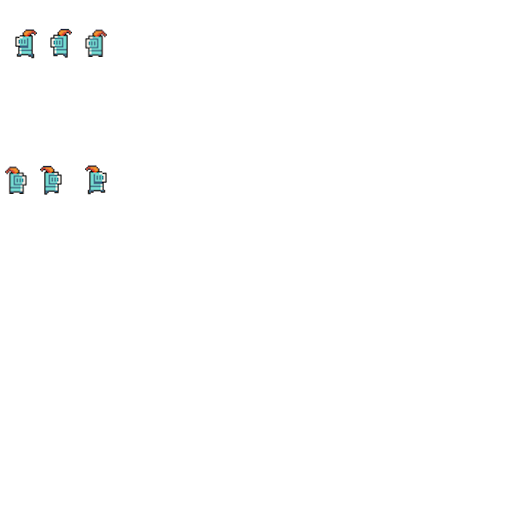
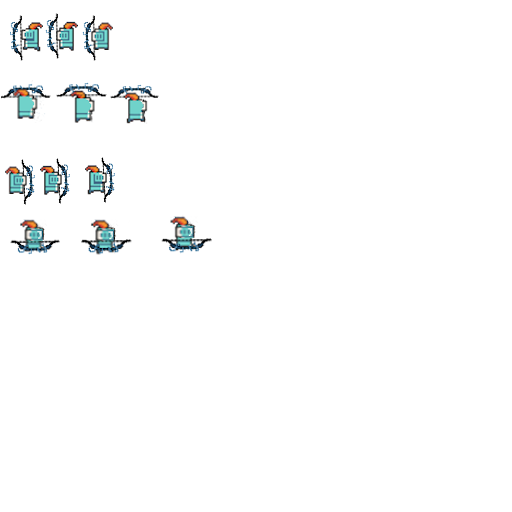
full character animation for 4 directions

diff --git a/dist/main.js b/dist/main.js
@@ -118,7 +118,7 @@ eval("__webpack_require__.r(__webpack_exports__);\n/* harmony export (binding) *
 /***/ (function(module, __webpack_exports__, __webpack_require__) {
 
 "use strict";
-eval("__webpack_require__.r(__webpack_exports__);\n/* harmony export (binding) */ __webpack_require__.d(__webpack_exports__, \"default\", function() { return Game; });\n/* harmony import */ var _player__WEBPACK_IMPORTED_MODULE_0__ = __webpack_require__(/*! ./player */ \"./src/player.js\");\n/* harmony import */ var _monster__WEBPACK_IMPORTED_MODULE_1__ = __webpack_require__(/*! ./monster */ \"./src/monster.js\");\n/* harmony import */ var _board__WEBPACK_IMPORTED_MODULE_2__ = __webpack_require__(/*! ./board */ \"./src/board.js\");\n/* harmony import */ var _keys__WEBPACK_IMPORTED_MODULE_3__ = __webpack_require__(/*! ./keys */ \"./src/keys.js\");\n/* harmony import */ var _sprite__WEBPACK_IMPORTED_MODULE_4__ = __webpack_require__(/*! ./sprite */ \"./src/sprite.js\");\n\r\n\r\n\r\n\r\n\r\n\r\nclass Game {\r\n  constructor() {\r\n    this.board = new _board__WEBPACK_IMPORTED_MODULE_2__[\"default\"]();\r\n    this.player = new _player__WEBPACK_IMPORTED_MODULE_0__[\"default\"]();\r\n    this.monsters = [];\r\n    this.keys = _keys__WEBPACK_IMPORTED_MODULE_3__[\"keysDown\"];\r\n    this.currentSecond = 0;\r\n    this.frameCount = 0;\r\n    this.framesLastSecond = 0;\r\n    this.lastFrameTime = 0; \r\n    this.drawGame = this.drawGame.bind(this)\r\n  }\r\n\r\n  \r\n  drawGame() {\r\n    let currentFrameTime = Date.now();\r\n    let timeElapsed = currentFrameTime - this.lastFrameTime\r\n\r\n    let sec = Math.floor(Date.now()/1000);\r\n    if (sec !== this.currentSecond) {\r\n      this.currentSecond = sec;\r\n      this.framesLastSecond = this.frameCount; \r\n      this.frameCount = 1;\r\n    } else {\r\n      this.frameCount++;\r\n    }\r\n    \r\n    if (!this.player.handleMove(currentFrameTime)) {\r\n      this.checkValidMove(currentFrameTime)\r\n    }\r\n\r\n    for (let y = 0; y < this.board.mapHeight; y++) {\r\n      for (let x = 0; x < this.board.mapWidth; x++) {\r\n        let tile =  this.board.tileTypes[this.board.gameMap[this.player.toIndex(x, y)]];\r\n        let tileset = new Image();\r\n        tileset.src = tile.sprite.url;\r\n        this.board.ctx.drawImage(tileset, tile.sprite.pos[0], tile.sprite.pos[1], tile.sprite.size[0], tile.sprite.size[1], (x * this.board.tileWidth), (y * this.board.tileHeight), this.board.tileWidth, this.board.tileHeight)\r\n      }\r\n    }\r\n\r\n    let spritePlayer = this.player.sprites[this.player.direction]\r\n    let toonSet = new Image();\r\n    toonSet.src = spritePlayer.url\r\n    let totalSpriteTime = 0;\r\n\r\n    for (let s in spritePlayer.frames) {\r\n      spritePlayer.frames[s]['start'] = totalSpriteTime;\r\n      totalSpriteTime += spritePlayer.aniTime;\r\n      spritePlayer.frames[s]['end'] = totalSpriteTime;\r\n    }\r\n\r\n    spritePlayer['totalSpriteDuration'] = totalSpriteTime;\r\n    \r\n    let toon = this.getFrame(spritePlayer.frames, spritePlayer.totalSpriteDuration, currentFrameTime, this.player.moving)\r\n    this.board.ctx.drawImage(toonSet, toon.pos[0], toon.pos[1], toon.size[0], toon.size[1], this.player.mapPos[0], this.player.mapPos[1], this.player.size[0], this.player.size[1])\r\n  \r\n\r\n    \r\n    while (this.monsters.length < 1) {\r\n      let monster = new _monster__WEBPACK_IMPORTED_MODULE_1__[\"default\"]();\r\n      this.monsters.push(monster);\r\n    }\r\n\r\n    if (!this.monsters[0].handleMove(currentFrameTime)) {\r\n      this.monsterCheckValidMove(currentFrameTime)\r\n    }\r\n    \r\n    \r\n    for (let m = 0; m < this.monsters.length; m++) {\r\n\r\n      let spriteMonster = this.monsters[m];\r\n      let monsterSet = new Image();\r\n      monsterSet.src = \"./src/images/monsterSet.png\";\r\n\r\n      this.board.ctx.drawImage(monsterSet, 16, 14, 40, 40, spriteMonster.mapPos[0], spriteMonster.mapPos[1], spriteMonster.size[0], spriteMonster.size[1])\r\n    }\r\n\r\n    this.board.ctx.fillStyle = \"#ff0000\";\r\n    this.board.ctx.fillText(this.player.mapPos, 10, 20)\r\n    this.board.ctx.fillText(`FPS: ${this.framesLastSecond}`, 10, 30);\r\n    this.board.ctx.fillText(this.player.currentPos, 10, 50);\r\n    \r\n    this.lastFrameTime = currentFrameTime;\r\n    requestAnimationFrame(this.drawGame);\r\n  }\r\n\r\n  checkValidMove(currentFrameTime) {\r\n    // if (this.keys[37] && this.keys[38] && this.player.canMoveLeft() && this.player.canMoveUp()) {\r\n    //   this.player.moveUpLeft(currentFrameTime); NEEDS WORK- ANIMATION\r\n    if (this.keys[37] && this.player.canMoveLeft()) {\r\n      this.player.lastDir = \"left\"\r\n      this.player.moveLeft(currentFrameTime);\r\n    } else if (this.keys[38] && this.player.canMoveUp()) {\r\n      this.player.lastDir = \"up\"\r\n      this.player.moveUp(currentFrameTime);\r\n    } else if (this.keys[39] && this.player.canMoveRight()) {\r\n      this.player.lastDir = \"right\"\r\n      this.player.moveRight(currentFrameTime);\r\n    } else if (this.keys[40] && this.player.canMoveDown()) {\r\n      this.player.lastDir = \"down\"\r\n      this.player.moveDown(currentFrameTime);\r\n    }\r\n  }\r\n\r\n  monsterCheckValidMove(currentFrameTime) {\r\n    if (this.monsters[0].canMoveLeft() && (this.player.currentPos[0] < this.monsters[0].currentPos[0])) {\r\n      this.monsters[0].moveLeft(currentFrameTime)\r\n    } else if (this.monsters[0].canMoveUp() && (this.player.currentPos[1] < this.monsters[0].currentPos[1])) {\r\n      this.monsters[0].moveUp(currentFrameTime);\r\n    } else if (this.monsters[0].canMoveRight() && (this.player.currentPos[0] > this.monsters[0].currentPos[0])) {\r\n      this.monsters[0].moveRight(currentFrameTime);\r\n    } else if (this.monsters[0].canMoveDown() && (this.player.currentPos[1] > this.monsters[0].currentPos[1])) {\r\n      this.monsters[0].moveDown(currentFrameTime);\r\n    }\r\n  }\r\n\r\n  getFrame(sprites, duration, time, moving) {\r\n    if (!moving) return sprites[0]\r\n    time = time % duration;\r\n    for (let i in sprites) {\r\n      if (sprites[i].end >= time) return sprites[i];\r\n    }\r\n  }\r\n\r\n};\n\n//# sourceURL=webpack:///./src/game.js?");
+eval("__webpack_require__.r(__webpack_exports__);\n/* harmony export (binding) */ __webpack_require__.d(__webpack_exports__, \"default\", function() { return Game; });\n/* harmony import */ var _player__WEBPACK_IMPORTED_MODULE_0__ = __webpack_require__(/*! ./player */ \"./src/player.js\");\n/* harmony import */ var _monster__WEBPACK_IMPORTED_MODULE_1__ = __webpack_require__(/*! ./monster */ \"./src/monster.js\");\n/* harmony import */ var _board__WEBPACK_IMPORTED_MODULE_2__ = __webpack_require__(/*! ./board */ \"./src/board.js\");\n/* harmony import */ var _keys__WEBPACK_IMPORTED_MODULE_3__ = __webpack_require__(/*! ./keys */ \"./src/keys.js\");\n/* harmony import */ var _sprite__WEBPACK_IMPORTED_MODULE_4__ = __webpack_require__(/*! ./sprite */ \"./src/sprite.js\");\n\r\n\r\n\r\n\r\n\r\n\r\nclass Game {\r\n  constructor() {\r\n    this.board = new _board__WEBPACK_IMPORTED_MODULE_2__[\"default\"]();\r\n    this.player = new _player__WEBPACK_IMPORTED_MODULE_0__[\"default\"]();\r\n    this.monsters = [];\r\n    this.keys = _keys__WEBPACK_IMPORTED_MODULE_3__[\"keysDown\"];\r\n    this.currentSecond = 0;\r\n    this.frameCount = 0;\r\n    this.framesLastSecond = 0;\r\n    this.lastFrameTime = 0; \r\n    this.drawGame = this.drawGame.bind(this)\r\n  }\r\n\r\n  \r\n  drawGame() {\r\n    let currentFrameTime = Date.now();\r\n    let timeElapsed = currentFrameTime - this.lastFrameTime\r\n\r\n    let sec = Math.floor(Date.now()/1000);\r\n    if (sec !== this.currentSecond) {\r\n      this.currentSecond = sec;\r\n      this.framesLastSecond = this.frameCount; \r\n      this.frameCount = 1;\r\n    } else {\r\n      this.frameCount++;\r\n    }\r\n    \r\n    if (!this.player.handleMove(currentFrameTime)) {\r\n      this.checkValidMove(currentFrameTime)\r\n    }\r\n\r\n    for (let y = 0; y < this.board.mapHeight; y++) {\r\n      for (let x = 0; x < this.board.mapWidth; x++) {\r\n        let tile =  this.board.tileTypes[this.board.gameMap[this.player.toIndex(x, y)]];\r\n        let tileset = new Image();\r\n        tileset.src = tile.sprite.url;\r\n        this.board.ctx.drawImage(tileset, tile.sprite.pos[0], tile.sprite.pos[1], tile.sprite.size[0], tile.sprite.size[1], (x * this.board.tileWidth), (y * this.board.tileHeight), this.board.tileWidth, this.board.tileHeight)\r\n      }\r\n    }\r\n\r\n    let spritePlayer = this.player.sprites[this.player.direction]\r\n    let toonSet = new Image();\r\n    toonSet.src = spritePlayer.url\r\n    let totalSpriteTime = 0;\r\n\r\n    for (let s in spritePlayer.frames) {\r\n      spritePlayer.frames[s]['start'] = totalSpriteTime;\r\n      totalSpriteTime += spritePlayer.aniTime;\r\n      spritePlayer.frames[s]['end'] = totalSpriteTime;\r\n    }\r\n\r\n    spritePlayer['totalSpriteDuration'] = totalSpriteTime;\r\n    \r\n    let toon = this.getFrame(spritePlayer.frames, spritePlayer.totalSpriteDuration, currentFrameTime, this.player.moving)\r\n    this.board.ctx.drawImage(toonSet, toon.pos[0], toon.pos[1], toon.size[0], toon.size[1], this.player.mapPos[0], this.player.mapPos[1], this.player.size[0], this.player.size[1])\r\n  \r\n\r\n    \r\n    while (this.monsters.length < 1) {\r\n      let monster = new _monster__WEBPACK_IMPORTED_MODULE_1__[\"default\"]();\r\n      this.monsters.push(monster);\r\n    }\r\n\r\n    if (!this.monsters[0].handleMove(currentFrameTime)) {\r\n      this.monsterCheckValidMove(currentFrameTime)\r\n    }\r\n    \r\n    \r\n    for (let m = 0; m < this.monsters.length; m++) {\r\n\r\n      let spriteMonster = this.monsters[m];\r\n      let monsterSet = new Image();\r\n      monsterSet.src = \"./src/images/monsterSet.png\";\r\n\r\n      this.board.ctx.drawImage(monsterSet, 16, 14, 40, 40, spriteMonster.mapPos[0], spriteMonster.mapPos[1], spriteMonster.size[0], spriteMonster.size[1])\r\n    }\r\n\r\n    this.board.ctx.fillStyle = \"#ff0000\";\r\n    this.board.ctx.fillText(this.player.mapPos, 10, 20)\r\n    this.board.ctx.fillText(`FPS: ${this.framesLastSecond}`, 10, 30);\r\n    this.board.ctx.fillText(this.player.currentPos, 10, 50);\r\n    \r\n    this.lastFrameTime = currentFrameTime;\r\n    requestAnimationFrame(this.drawGame);\r\n  }\r\n\r\n  checkValidMove(currentFrameTime) {\r\n    // if (this.keys[37] && this.keys[38] && this.player.canMoveLeft() && this.player.canMoveUp()) {\r\n    //   this.player.moveUpLeft(currentFrameTime); NEEDS WORK- ANIMATION\r\n    if (this.keys[37] && this.player.canMoveLeft()) {\r\n      this.player.moveLeft(currentFrameTime);\r\n    } else if (this.keys[38] && this.player.canMoveUp()) {\r\n      this.player.moveUp(currentFrameTime);\r\n    } else if (this.keys[39] && this.player.canMoveRight()) {\r\n      this.player.moveRight(currentFrameTime);\r\n    } else if (this.keys[40] && this.player.canMoveDown()) {\r\n      this.player.moveDown(currentFrameTime);\r\n    }\r\n  }\r\n\r\n  monsterCheckValidMove(currentFrameTime) {\r\n    if (this.monsters[0].canMoveLeft() && (this.player.currentPos[0] < this.monsters[0].currentPos[0])) {\r\n      this.monsters[0].moveLeft(currentFrameTime)\r\n    } else if (this.monsters[0].canMoveUp() && (this.player.currentPos[1] < this.monsters[0].currentPos[1])) {\r\n      this.monsters[0].moveUp(currentFrameTime);\r\n    } else if (this.monsters[0].canMoveRight() && (this.player.currentPos[0] > this.monsters[0].currentPos[0])) {\r\n      this.monsters[0].moveRight(currentFrameTime);\r\n    } else if (this.monsters[0].canMoveDown() && (this.player.currentPos[1] > this.monsters[0].currentPos[1])) {\r\n      this.monsters[0].moveDown(currentFrameTime);\r\n    }\r\n  }\r\n\r\n  getFrame(sprites, duration, time, moving) {\r\n    if (!moving) return sprites[0]\r\n    time = time % duration;\r\n    for (let i in sprites) {\r\n      if (sprites[i].end >= time) return sprites[i];\r\n    }\r\n  }\r\n\r\n};\n\n//# sourceURL=webpack:///./src/game.js?");
 
 /***/ }),
 
@@ -178,7 +178,7 @@ eval("__webpack_require__.r(__webpack_exports__);\n/* harmony export (binding) *
 /***/ (function(module, __webpack_exports__, __webpack_require__) {
 
 "use strict";
-eval("__webpack_require__.r(__webpack_exports__);\n/* harmony export (binding) */ __webpack_require__.d(__webpack_exports__, \"default\", function() { return Player; });\n/* harmony import */ var _board__WEBPACK_IMPORTED_MODULE_0__ = __webpack_require__(/*! ./board */ \"./src/board.js\");\n/* harmony import */ var _character_sprite__WEBPACK_IMPORTED_MODULE_1__ = __webpack_require__(/*! ./character_sprite */ \"./src/character_sprite.js\");\n\r\n\r\n\r\nclass Player {\r\n  constructor() {\r\n    this.currentPos = [1, 4];\r\n    this.nextPos = [1, 4];\r\n    this.timeStart = 0;\r\n    this.delayMove = 300;\r\n    this.size = [50, 50]; \r\n    this.mapPos = [90, 290];\r\n    this.sampleBoard = new _board__WEBPACK_IMPORTED_MODULE_0__[\"default\"]();\r\n    this.direction = \"right\";\r\n    this.lastDir = \"right\"\r\n    this.moving = false;\r\n    this.sprites = {\r\n      \"up\": new _character_sprite__WEBPACK_IMPORTED_MODULE_1__[\"default\"](\"./src/images/knightFrames.png\", { 0: { pos: [5, 167], size: [35, 39] },\r\n                                                                   1: { pos: [40, 166], size: [40, 39] },\r\n                                                                   2: { pos: [85, 165], size: [40, 39] }\r\n                                                                  },\r\n                                                                  200), \r\n      \"right\": new _character_sprite__WEBPACK_IMPORTED_MODULE_1__[\"default\"](\"./src/images/knightFrames.png\", { 0: { pos: [5, 167], size: [35, 39] },\r\n                                                                     1: { pos: [40, 166], size: [40, 39] },\r\n                                                                     2: { pos: [85, 165], size: [40, 39] }\r\n                                                                   },\r\n                                                                   200), \r\n      \"down\": new _character_sprite__WEBPACK_IMPORTED_MODULE_1__[\"default\"](\"./src/images/knightFrames.png\", { 0: { pos: [5, 167], size: [35, 39] },\r\n                                                                    1: { pos: [40, 166], size: [40, 39] },\r\n                                                                    2: { pos: [85, 165], size: [40, 39] }\r\n                                                                    },\r\n                                                                    200), \r\n      \"left\": new _character_sprite__WEBPACK_IMPORTED_MODULE_1__[\"default\"](\"./src/images/knightFrames.png\", { 0: { pos: [84, 30], size: [40, 39] },\r\n                                                                    1: { pos: [50, 29], size: [34, 39] },\r\n                                                                    2: { pos: [15, 29], size: [34, 39] }\r\n                                                                    },\r\n                                                                    200)\r\n\r\n    }\r\n    \r\n  }\r\n\r\n\r\n  move(x, y) {\r\n    this.currentPos = [x, y];\r\n    this.nextPos = [x, y];\r\n    this.mapPos = [\r\n      (this.sampleBoard.tileWidth * x) + ((this.sampleBoard.tileWidth - this.size[0]) / 2), \r\n      (this.sampleBoard.tileHeight * y) + ((this.sampleBoard.tileHeight - this.size[1]) / 2)\r\n    ];\r\n  }\r\n\r\n  handleMove(currentTime) {\r\n    if (this.currentPos[0] === this.nextPos[0] && this.currentPos[1] === this.nextPos[1]) return false;\r\n\r\n    if ((currentTime - this.timeStart) >= this.delayMove ) {\r\n      this.move(this.nextPos[0], this.nextPos[1]);\r\n      this.moving = !this.moving\r\n    } else {\r\n      this.getMapPos();\r\n      this.checkDirectionAndAdjust(currentTime);\r\n      this.mapPos[0] = Math.round(this.mapPos[0]);\r\n      this.mapPos[1] = Math.round(this.mapPos[1]);\r\n    }\r\n\r\n    return true;\r\n  }\r\n\r\n  getMapPos() {// \r\n    this.mapPos[0] = (this.currentPos[0] * this.sampleBoard.tileWidth) + ((this.sampleBoard.tileWidth - this.size[0]) / 2);\r\n    this.mapPos[1] = (this.currentPos[1] * this.sampleBoard.tileHeight) + ((this.sampleBoard.tileHeight - this.size[1]) / 2);\r\n  }\r\n\r\n  checkDirectionAndAdjust(currentTime) {\r\n    if (this.nextPos[0] !== this.currentPos[0]) {\r\n      let pixelDist = (this.sampleBoard.tileWidth / this.delayMove) * (currentTime - this.timeStart);\r\n\r\n      if (this.nextPos[0] < this.currentPos[0]) {\r\n        this.mapPos[0] += (0 - pixelDist);\r\n      } else {\r\n        this.mapPos[0] += (pixelDist);\r\n      }\r\n    } else {\r\n      let pixelDist = (this.sampleBoard.tileHeight / this.delayMove) * (currentTime - this.timeStart);\r\n\r\n      if (this.nextPos[1] < this.currentPos[1]) {\r\n        this.mapPos[1] += (0 - pixelDist);\r\n      } else {\r\n        this.mapPos[1] += (pixelDist);\r\n      }\r\n    }\r\n  }\r\n\r\n  toIndex(x, y) {\r\n    return ((y * this.sampleBoard.mapWidth) + x);\r\n  }\r\n\r\n  isWalkable(x, y) {\r\n    if (x < 0 || x >= this.sampleBoard.mapWidth || y < 0 || y >= this.sampleBoard.mapHeight) return false;\r\n    if (this.sampleBoard.tileTypes[this.sampleBoard.gameMap[this.toIndex(x, y)]].floor !== this.sampleBoard.floorTypes.walkable) return false; \r\n    return true;\r\n  }\r\n\r\n  canMoveUp() {\r\n    return this.isWalkable(this.currentPos[0], this.currentPos[1] - 1);\r\n  }\r\n\r\n  canMoveDown() {\r\n    return this.isWalkable(this.currentPos[0], this.currentPos[1] + 1);\r\n  }\r\n\r\n  canMoveLeft() {\r\n    return this.isWalkable(this.currentPos[0] - 1, this.currentPos[1]);\r\n  }\r\n\r\n  canMoveRight() {\r\n    return this.isWalkable(this.currentPos[0] + 1, this.currentPos[1]);\r\n  }\r\n\r\n  moveUp(currentGameTime) {\r\n    this.nextPos[1] -= 1;\r\n    this.timeStart = currentGameTime;\r\n    if (this.lastDir === \"left\") this.direction = \"left\";\r\n    this.moving = true;\r\n  }\r\n  \r\n  moveDown(currentGameTime) {\r\n    this.nextPos[1] += 1;\r\n    this.timeStart = currentGameTime;\r\n    if (this.lastDir === \"left\") this.direction = \"left\";\r\n    this.moving = true;\r\n  }\r\n\r\n  moveLeft(currentGameTime) {\r\n    this.nextPos[0] -= 1;\r\n    this.timeStart = currentGameTime;\r\n    this.direction = \"left\";\r\n    this.moving = true; \r\n  }\r\n\r\n  moveRight(currentGameTime) {\r\n    this.nextPos[0] += 1;\r\n    this.timeStart = currentGameTime;\r\n    this.direction = \"right\";\r\n    this.moving = true;\r\n  }\r\n\r\n  // moveUpLeft(currentGameTime) {\r\n  //   this.nextPos[0] -= 1;  NEEDS WORK-ANIMATION\r\n  //   this.nextPos[1] -= 1;\r\n  //   this.timeStart = currentGameTime;\r\n  //   this.direction = \"upLeft\"\r\n  //   this.moving = true;\r\n  // }\r\n\r\n};\r\n\r\n\n\n//# sourceURL=webpack:///./src/player.js?");
+eval("__webpack_require__.r(__webpack_exports__);\n/* harmony export (binding) */ __webpack_require__.d(__webpack_exports__, \"default\", function() { return Player; });\n/* harmony import */ var _board__WEBPACK_IMPORTED_MODULE_0__ = __webpack_require__(/*! ./board */ \"./src/board.js\");\n/* harmony import */ var _character_sprite__WEBPACK_IMPORTED_MODULE_1__ = __webpack_require__(/*! ./character_sprite */ \"./src/character_sprite.js\");\n\r\n\r\n\r\nclass Player {\r\n  constructor() {\r\n    this.currentPos = [1, 4];\r\n    this.nextPos = [1, 4];\r\n    this.timeStart = 0;\r\n    this.delayMove = 300;\r\n    this.size = [50, 50]; \r\n    this.mapPos = [90, 290];\r\n    this.sampleBoard = new _board__WEBPACK_IMPORTED_MODULE_0__[\"default\"]();\r\n    this.direction = \"right\";\r\n    this.lastDir = \"right\"\r\n    this.moving = false;\r\n    this.sprites = {\r\n      \"up\": new _character_sprite__WEBPACK_IMPORTED_MODULE_1__[\"default\"](\"./src/images/knightFrames.png\", { 0: { pos: [1, 84], size: [46, 43] },\r\n                                                                   1: { pos: [57, 83], size: [46, 43] },\r\n                                                                   2: { pos: [111, 85], size: [46, 43] }\r\n                                                                  },\r\n                                                                  200), \r\n      \"right\": new _character_sprite__WEBPACK_IMPORTED_MODULE_1__[\"default\"](\"./src/images/knightFrames.png\", { 0: { pos: [5, 160], size: [35, 43] },\r\n                                                                     1: { pos: [40, 159], size: [40, 43] },\r\n                                                                     2: { pos: [85, 157], size: [40, 43] }\r\n                                                                   },\r\n                                                                   200), \r\n      \"down\": new _character_sprite__WEBPACK_IMPORTED_MODULE_1__[\"default\"](\"./src/images/knightFrames.png\", { 0: { pos: [11, 220], size: [46, 40] },\r\n                                                                    1: { pos: [81, 220], size: [46, 40] },\r\n                                                                    2: { pos: [162, 217], size: [46, 40] }\r\n                                                                    },\r\n                                                                    200), \r\n      \"left\": new _character_sprite__WEBPACK_IMPORTED_MODULE_1__[\"default\"](\"./src/images/knightFrames.png\", { 0: { pos: [83, 15], size: [35, 42] },\r\n                                                                    1: { pos: [46, 13], size: [36, 42] },\r\n                                                                    2: { pos: [10, 15], size: [36, 43] }\r\n                                                                    },\r\n                                                                    200)\r\n\r\n    }\r\n    \r\n  }\r\n\r\n\r\n  move(x, y) {\r\n    this.currentPos = [x, y];\r\n    this.nextPos = [x, y];\r\n    this.mapPos = [\r\n      (this.sampleBoard.tileWidth * x) + ((this.sampleBoard.tileWidth - this.size[0]) / 2), \r\n      (this.sampleBoard.tileHeight * y) + ((this.sampleBoard.tileHeight - this.size[1]) / 2)\r\n    ];\r\n  }\r\n\r\n  handleMove(currentTime) {\r\n    if (this.currentPos[0] === this.nextPos[0] && this.currentPos[1] === this.nextPos[1]) return false;\r\n\r\n    if ((currentTime - this.timeStart) >= this.delayMove ) {\r\n      this.move(this.nextPos[0], this.nextPos[1]);\r\n      this.moving = !this.moving\r\n    } else {\r\n      this.getMapPos();\r\n      this.checkDirectionAndAdjust(currentTime);\r\n      this.mapPos[0] = Math.round(this.mapPos[0]);\r\n      this.mapPos[1] = Math.round(this.mapPos[1]);\r\n    }\r\n\r\n    return true;\r\n  }\r\n\r\n  getMapPos() {// \r\n    this.mapPos[0] = (this.currentPos[0] * this.sampleBoard.tileWidth) + ((this.sampleBoard.tileWidth - this.size[0]) / 2);\r\n    this.mapPos[1] = (this.currentPos[1] * this.sampleBoard.tileHeight) + ((this.sampleBoard.tileHeight - this.size[1]) / 2);\r\n  }\r\n\r\n  checkDirectionAndAdjust(currentTime) {\r\n    if (this.nextPos[0] !== this.currentPos[0]) {\r\n      let pixelDist = (this.sampleBoard.tileWidth / this.delayMove) * (currentTime - this.timeStart);\r\n\r\n      if (this.nextPos[0] < this.currentPos[0]) {\r\n        this.mapPos[0] += (0 - pixelDist);\r\n      } else {\r\n        this.mapPos[0] += (pixelDist);\r\n      }\r\n    } else {\r\n      let pixelDist = (this.sampleBoard.tileHeight / this.delayMove) * (currentTime - this.timeStart);\r\n\r\n      if (this.nextPos[1] < this.currentPos[1]) {\r\n        this.mapPos[1] += (0 - pixelDist);\r\n      } else {\r\n        this.mapPos[1] += (pixelDist);\r\n      }\r\n    }\r\n  }\r\n\r\n  toIndex(x, y) {\r\n    return ((y * this.sampleBoard.mapWidth) + x);\r\n  }\r\n\r\n  isWalkable(x, y) {\r\n    if (x < 0 || x >= this.sampleBoard.mapWidth || y < 0 || y >= this.sampleBoard.mapHeight) return false;\r\n    if (this.sampleBoard.tileTypes[this.sampleBoard.gameMap[this.toIndex(x, y)]].floor !== this.sampleBoard.floorTypes.walkable) return false; \r\n    return true;\r\n  }\r\n\r\n  canMoveUp() {\r\n    return this.isWalkable(this.currentPos[0], this.currentPos[1] - 1);\r\n  }\r\n\r\n  canMoveDown() {\r\n    return this.isWalkable(this.currentPos[0], this.currentPos[1] + 1);\r\n  }\r\n\r\n  canMoveLeft() {\r\n    return this.isWalkable(this.currentPos[0] - 1, this.currentPos[1]);\r\n  }\r\n\r\n  canMoveRight() {\r\n    return this.isWalkable(this.currentPos[0] + 1, this.currentPos[1]);\r\n  }\r\n\r\n  moveUp(currentGameTime) {\r\n    this.nextPos[1] -= 1;\r\n    this.timeStart = currentGameTime;\r\n    this.direction = \"up\"\r\n    this.moving = true;\r\n  }\r\n  \r\n  moveDown(currentGameTime) {\r\n    this.nextPos[1] += 1;\r\n    this.timeStart = currentGameTime;\r\n    this.direction = \"down\";\r\n    this.moving = true;\r\n  }\r\n\r\n  moveLeft(currentGameTime) {\r\n    this.nextPos[0] -= 1;\r\n    this.timeStart = currentGameTime;\r\n    this.direction = \"left\";\r\n    this.moving = true; \r\n  }\r\n\r\n  moveRight(currentGameTime) {\r\n    this.nextPos[0] += 1;\r\n    this.timeStart = currentGameTime;\r\n    this.direction = \"right\";\r\n    this.moving = true;\r\n  }\r\n\r\n  // moveUpLeft(currentGameTime) {\r\n  //   this.nextPos[0] -= 1;  NEEDS WORK-ANIMATION\r\n  //   this.nextPos[1] -= 1;\r\n  //   this.timeStart = currentGameTime;\r\n  //   this.direction = \"upLeft\"\r\n  //   this.moving = true;\r\n  // }\r\n\r\n};\r\n\r\n\n\n//# sourceURL=webpack:///./src/player.js?");
 
 /***/ }),
 

diff --git a/src/player.js b/src/player.js
@@ -14,24 +14,24 @@ export default class Player {
     this.lastDir = "right"
     this.moving = false;
     this.sprites = {
-      "up": new CharacterSprite("./src/images/knightFrames.png", { 0: { pos: [5, 167], size: [35, 39] },
-                                                                   1: { pos: [40, 166], size: [40, 39] },
-                                                                   2: { pos: [85, 165], size: [40, 39] }
+      "up": new CharacterSprite("./src/images/knightFrames.png", { 0: { pos: [1, 84], size: [46, 43] },
+                                                                   1: { pos: [57, 83], size: [46, 43] },
+                                                                   2: { pos: [111, 85], size: [46, 43] }
                                                                   },
                                                                   200), 
-      "right": new CharacterSprite("./src/images/knightFrames.png", { 0: { pos: [5, 167], size: [35, 39] },
-                                                                     1: { pos: [40, 166], size: [40, 39] },
-                                                                     2: { pos: [85, 165], size: [40, 39] }
+      "right": new CharacterSprite("./src/images/knightFrames.png", { 0: { pos: [5, 160], size: [35, 43] },
+                                                                     1: { pos: [40, 159], size: [40, 43] },
+                                                                     2: { pos: [85, 157], size: [40, 43] }
                                                                    },
                                                                    200), 
-      "down": new CharacterSprite("./src/images/knightFrames.png", { 0: { pos: [5, 167], size: [35, 39] },
-                                                                    1: { pos: [40, 166], size: [40, 39] },
-                                                                    2: { pos: [85, 165], size: [40, 39] }
+      "down": new CharacterSprite("./src/images/knightFrames.png", { 0: { pos: [11, 220], size: [46, 40] },
+                                                                    1: { pos: [81, 220], size: [46, 40] },
+                                                                    2: { pos: [162, 217], size: [46, 40] }
                                                                     },
                                                                     200), 
-      "left": new CharacterSprite("./src/images/knightFrames.png", { 0: { pos: [84, 30], size: [40, 39] },
-                                                                    1: { pos: [50, 29], size: [34, 39] },
-                                                                    2: { pos: [15, 29], size: [34, 39] }
+      "left": new CharacterSprite("./src/images/knightFrames.png", { 0: { pos: [83, 15], size: [35, 42] },
+                                                                    1: { pos: [46, 13], size: [36, 42] },
+                                                                    2: { pos: [10, 15], size: [36, 43] }
                                                                     },
                                                                     200)
 
@@ -119,14 +119,14 @@ export default class Player {
   moveUp(currentGameTime) {
     this.nextPos[1] -= 1;
     this.timeStart = currentGameTime;
-    if (this.lastDir === "left") this.direction = "left";
+    this.direction = "up"
     this.moving = true;
   }
   
   moveDown(currentGameTime) {
     this.nextPos[1] += 1;
     this.timeStart = currentGameTime;
-    if (this.lastDir === "left") this.direction = "left";
+    this.direction = "down";
     this.moving = true;
   }
 

diff --git a/src/game.js b/src/game.js
@@ -94,16 +94,12 @@ export default class Game {
     // if (this.keys[37] && this.keys[38] && this.player.canMoveLeft() && this.player.canMoveUp()) {
     //   this.player.moveUpLeft(currentFrameTime); NEEDS WORK- ANIMATION
     if (this.keys[37] && this.player.canMoveLeft()) {
-      this.player.lastDir = "left"
       this.player.moveLeft(currentFrameTime);
     } else if (this.keys[38] && this.player.canMoveUp()) {
-      this.player.lastDir = "up"
       this.player.moveUp(currentFrameTime);
     } else if (this.keys[39] && this.player.canMoveRight()) {
-      this.player.lastDir = "right"
       this.player.moveRight(currentFrameTime);
     } else if (this.keys[40] && this.player.canMoveDown()) {
-      this.player.lastDir = "down"
       this.player.moveDown(currentFrameTime);
     }
   }
